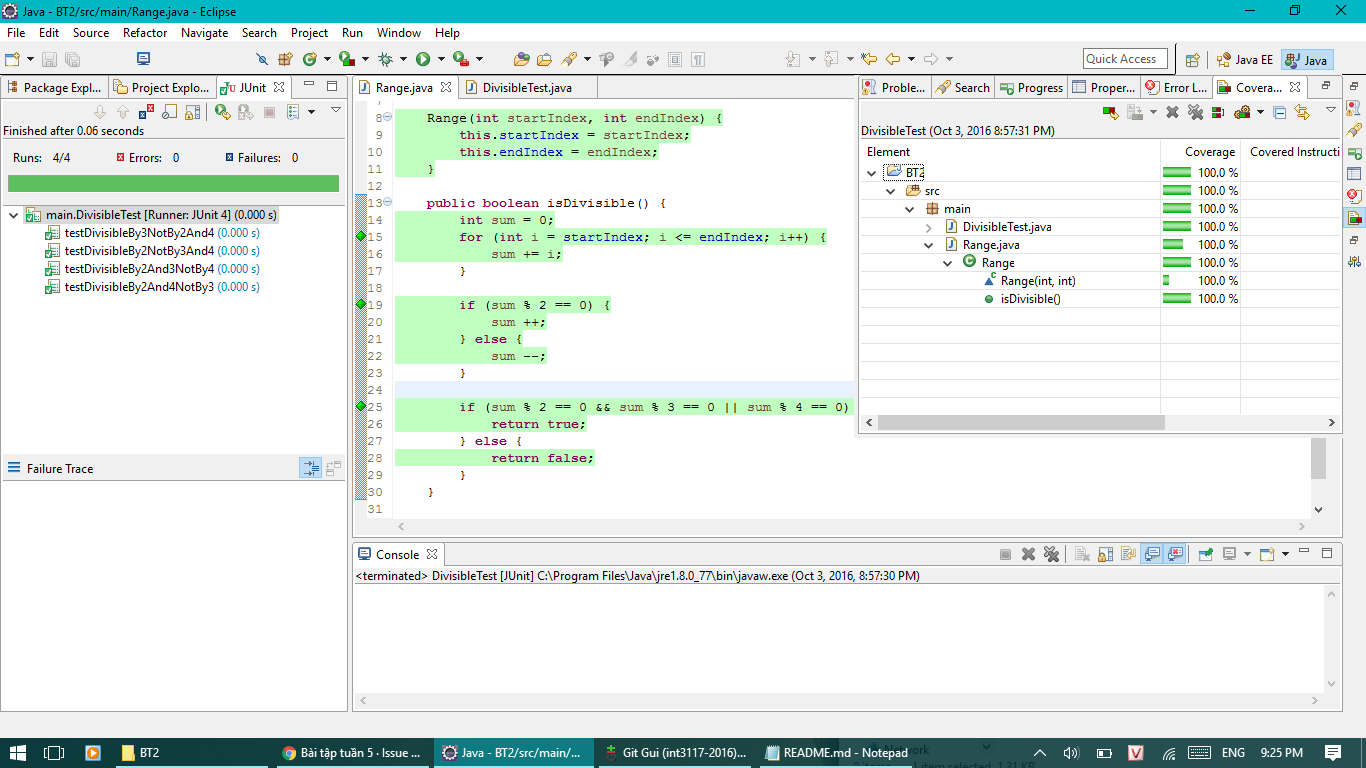
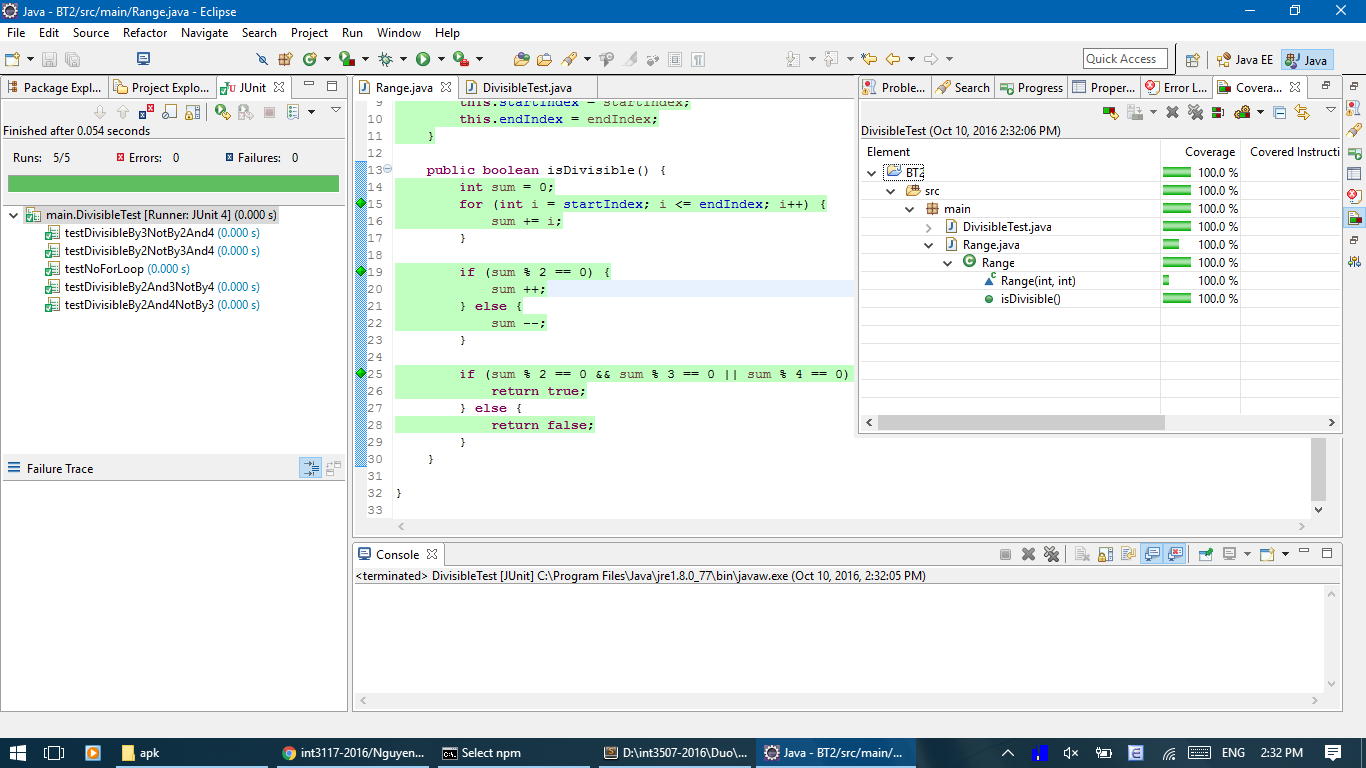
update bt2

diff --git a/NguyenVinhKhoa/BT2/src/main/DivisibleTest.java b/NguyenVinhKhoa/BT2/src/main/DivisibleTest.java
@@ -34,4 +34,11 @@ public class DivisibleTest {
 		assertEquals(false, actual);
 	}
 	
+	@Test
+	public void testNoForLoop() {
+		Range range = new Range(6, 3);
+		boolean actual = range.isDivisible();
+		assertEquals(false, actual);
+	}
+
 }

diff --git a/NguyenVinhKhoa/BT2/src/main/Range.java b/NguyenVinhKhoa/BT2/src/main/Range.java
@@ -28,5 +28,5 @@ public class Range {
 			return false;
 		}
 	}
-	
+
 }
